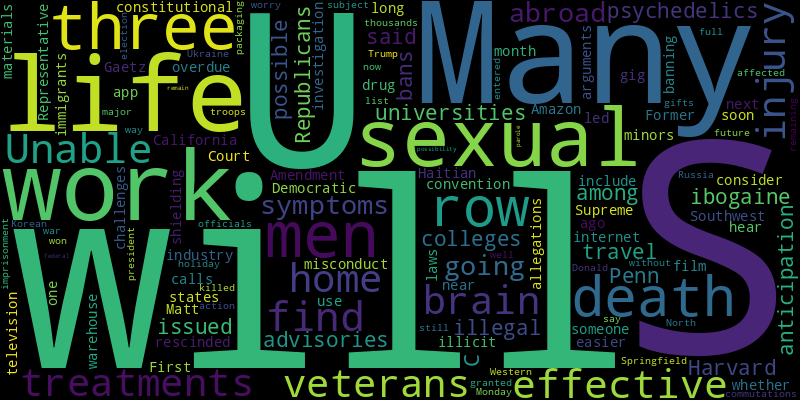
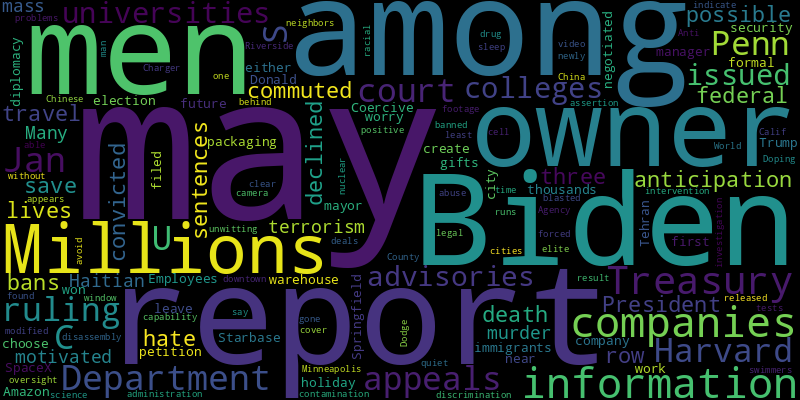
chore(bot): 👻 auto commit

diff --git a/README.md b/README.md
@@ -2,41 +2,41 @@
 Auto RSS New York Times and Generate Word Cloud
 
 ## New York Times Global News
+* Trump blamed Biden. Biden blamed the Afghan military. Our investigation found that the U.S. unwittingly laid the groundwork for the Taliban’s victory long ago.
+* Some say that the community is in danger of losing its 1,600-year foothold in the enclave and that it is far from certain those who have fled will ever feel safe enough to return home.
+* The Catholic Jubilee in 2025 is expected to draw 32 million visitors. Officials are proud of the city’s accompanying makeover, but residents lament soaring housing costs and changes in Rome’s character.
+* It is a daunting task for Bangladesh. But an unusual mix of young people and seasoned technocrats are determined to make the most of their opening.
+* Reports of vandalism and mob violence are real, but wilder accusations emanating from India muddy the picture.
+* Hun Manet, who took over as prime minister last year, has followed in the steps of his father, who ran Cambodia for nearly 40 years.
+* The U.K. government has pledged to remove hereditary peers from Parliament in 2025. For Lord Cromwell and 87 others, it is a wistful departure.
+* President Aleksandr G. Lukashenko of Belarus keeps arresting political opponents, but analysts wonder if a string of unusual pardons is a bid to get sanctions eased.
 * After decades of silence, dozens of older men are talking about the sexual abuse they suffered at schools run by religious orders. We spoke to four of them.
-* Gangs are filling a power vacuum left by Israel in some parts of southern Gaza, hijacking desperately needed aid for Palestinian residents.
-* The North Korean army is one of the world’s largest. As it joins Russia’s war against Ukraine, its soldiers are paying a price for Kim Jong-un’s geopolitical maneuvers.
-* The authorities said they were struggling to understand the motives behind ramming a car into a Christmas market in the eastern city of Magdeburg, which left a 9-year-old boy among the five dead.
-* A group of missionaries who surf have expanded to a remote part of Costa Rica, where people come from afar looking for the “perfect wave.” And maybe a little Jesus?
-* At least 17 on the ground were hurt, officials said.
-* Lithuania’s national opera house had stopped showing Tchaikovsky’s 1892 masterpiece in solidarity with Ukraine over the war with Russia. Then a new minister expressed fondness for the Russian composer, igniting a furor.
-* President Bashar al-Assad, who wielded fear and force over Syria for more than two decades, fled the country under the cover of night — and a fake political address.
-* A U.S. Navy ship mistakenly fired at the F/A-18, whose two pilots were safely recovered, the military said.
-* In the West African nation of Niger, killings by insurgents have surged since the military seized power in a coup, expelled U.S. and European troops and stopped negotiations with Islamist groups.
+* After an assailant driving an S.U.V. killed five people, calls for solidarity have quickly given way to criticism by rival lawmakers, ahead of snap elections set for February.
 
 ![Global](./global.png)
 ## New York Times United States News
-* Unable to find effective treatments at home, veterans with brain-injury symptoms are going abroad for psychedelics like ibogaine that are illegal in the U.S.
+* Millions of companies may have to report information about their owners to the Treasury Department by Jan. 1 under an appeals court ruling.
 * Harvard, Penn and U.S.C. were among the universities and colleges that issued advisories in anticipation of possible travel bans.
-* Some Republicans have said that a constitutional convention is overdue. Many Democratic-led states have rescinded their long-ago calls for one, and California will soon consider whether to do the same.
-* Would life in the Southwest be easier for someone doing gig work in the television and film industry?
-* Former Representative Matt Gaetz has been under investigation since 2021 over allegations that include sexual misconduct and illicit drug use.
-* The Supreme Court will hear arguments next month in First Amendment challenges to laws banning the app and shielding minors from sexual materials on the internet.
+* President Biden commuted the sentences of 37 men on federal death row but declined to save the lives of three men convicted of “hate-motivated mass murder” or “terrorism.”
 * Many Haitian immigrants work at an Amazon warehouse near Springfield, packaging thousands of holiday gifts. But after Donald Trump won the election, some worry about their future.
-* North Korean troops have now entered Russia’s war with Ukraine in a major way, and some have been killed, Western officials say.
-* Here is a full list of those granted commutations, as well as the three men remaining on death row.
-* Those affected by the president’s action on Monday are still subject to life imprisonment without the possibility of parole. Three men will remain on federal death row.
+* Employees of SpaceX have filed a formal petition to create the city of Starbase. Its first mayor would be a security manager for the company.
+* “Coercive diplomacy” could leave Tehran to choose either a negotiated disassembly of its nuclear capability, or a forced one.
+* As time runs out for the Biden administration, cities like Minneapolis — where an investigation found abuse and racial discrimination — may avoid oversight.
+* A modified Dodge Charger that blasted neighbors out of their sleep appears to have gone quiet, at least downtown, as its owner deals with legal problems.
+* China and the World Anti-Doping Agency say that positive tests for a banned drug among elite Chinese swimmers were a result of unwitting contamination. But the science behind that assertion is not so clear.
+* Reports and video footage newly released in Riverside County, Calif., indicate that a man was able to cover his cell window and camera without intervention.
 
 ![US](./usnews.png)
 ## New York Times Asia News
+* Trump blamed Biden. Biden blamed the Afghan military. Our investigation found that the U.S. unwittingly laid the groundwork for the Taliban’s victory long ago.
+* Reports of vandalism and mob violence are real, but wilder accusations emanating from India muddy the picture.
+* It is a daunting task for Bangladesh. But an unusual mix of young people and seasoned technocrats are determined to make the most of their opening.
+* Hun Manet, who took over as prime minister last year, has followed in the steps of his father, who ran Cambodia for nearly 40 years.
+* The Japanese companies are considering joining forces to survive in a rapidly changing auto industry, but auto history is filled with troubled and failed marriages.
+* Plus, celebrating “Chrismukkah.”
 * The North Korean army is one of the world’s largest. As it joins Russia’s war against Ukraine, its soldiers are paying a price for Kim Jong-un’s geopolitical maneuvers.
 * With the next season of “Squid Game” about to air, a Korean American writer shares her experience of a group tour in Korea based on the popular streaming genre.
 * Japan’s second- and third-largest automakers hope the $50 billion deal would help them catch up with Tesla and China’s BYD in electric vehicles and advanced software.
 * Plus, parody as protest in South Korea.
-* Anh Sung-jae went to America as a 13-year-old, joined the Army, went to culinary school and opened a top restaurant in San Francisco. Now back home in South Korea, he’s a Netflix star.
-* Political instability, dwindling public support and economic constraints are eroding the costly gains that the country made in combating militancy after a  school attack in 2014.
-* In separate agreements with Nauru, Papua New Guinea and the Solomon Islands, Australia is attempting to edge out China’s influence in the region.
-* Pension funds and big investors are pressuring Coca-Cola, Pepsico and others over brutal working conditions in India’s cane fields. Some of the sugar buyers are tiptoeing toward change.
-* A quarter century after the former Portuguese colony was made a Chinese territory, Macau’s economic boundaries with the mainland are being blurred.
-* Plus, the year in viral moments.
 
 ![Asian](./asian.png)

diff --git a/archive/2024-12-23.md b/archive/2024-12-23.md
@@ -1,0 +1,42 @@
+# NewsArchive
+Auto RSS New York Times and Generate Word Cloud
+
+## New York Times Global News
+* After decades of silence, dozens of older men are talking about the sexual abuse they suffered at schools run by religious orders. We spoke to four of them.
+* Gangs are filling a power vacuum left by Israel in some parts of southern Gaza, hijacking desperately needed aid for Palestinian residents.
+* The North Korean army is one of the world’s largest. As it joins Russia’s war against Ukraine, its soldiers are paying a price for Kim Jong-un’s geopolitical maneuvers.
+* The authorities said they were struggling to understand the motives behind ramming a car into a Christmas market in the eastern city of Magdeburg, which left a 9-year-old boy among the five dead.
+* A group of missionaries who surf have expanded to a remote part of Costa Rica, where people come from afar looking for the “perfect wave.” And maybe a little Jesus?
+* At least 17 on the ground were hurt, officials said.
+* Lithuania’s national opera house had stopped showing Tchaikovsky’s 1892 masterpiece in solidarity with Ukraine over the war with Russia. Then a new minister expressed fondness for the Russian composer, igniting a furor.
+* President Bashar al-Assad, who wielded fear and force over Syria for more than two decades, fled the country under the cover of night — and a fake political address.
+* A U.S. Navy ship mistakenly fired at the F/A-18, whose two pilots were safely recovered, the military said.
+* In the West African nation of Niger, killings by insurgents have surged since the military seized power in a coup, expelled U.S. and European troops and stopped negotiations with Islamist groups.
+
+![Global](./global.png)
+## New York Times United States News
+* Unable to find effective treatments at home, veterans with brain-injury symptoms are going abroad for psychedelics like ibogaine that are illegal in the U.S.
+* Harvard, Penn and U.S.C. were among the universities and colleges that issued advisories in anticipation of possible travel bans.
+* Some Republicans have said that a constitutional convention is overdue. Many Democratic-led states have rescinded their long-ago calls for one, and California will soon consider whether to do the same.
+* Would life in the Southwest be easier for someone doing gig work in the television and film industry?
+* Former Representative Matt Gaetz has been under investigation since 2021 over allegations that include sexual misconduct and illicit drug use.
+* The Supreme Court will hear arguments next month in First Amendment challenges to laws banning the app and shielding minors from sexual materials on the internet.
+* Many Haitian immigrants work at an Amazon warehouse near Springfield, packaging thousands of holiday gifts. But after Donald Trump won the election, some worry about their future.
+* North Korean troops have now entered Russia’s war with Ukraine in a major way, and some have been killed, Western officials say.
+* Here is a full list of those granted commutations, as well as the three men remaining on death row.
+* Those affected by the president’s action on Monday are still subject to life imprisonment without the possibility of parole. Three men will remain on federal death row.
+
+![US](./usnews.png)
+## New York Times Asia News
+* The North Korean army is one of the world’s largest. As it joins Russia’s war against Ukraine, its soldiers are paying a price for Kim Jong-un’s geopolitical maneuvers.
+* With the next season of “Squid Game” about to air, a Korean American writer shares her experience of a group tour in Korea based on the popular streaming genre.
+* Japan’s second- and third-largest automakers hope the $50 billion deal would help them catch up with Tesla and China’s BYD in electric vehicles and advanced software.
+* Plus, parody as protest in South Korea.
+* Anh Sung-jae went to America as a 13-year-old, joined the Army, went to culinary school and opened a top restaurant in San Francisco. Now back home in South Korea, he’s a Netflix star.
+* Political instability, dwindling public support and economic constraints are eroding the costly gains that the country made in combating militancy after a  school attack in 2014.
+* In separate agreements with Nauru, Papua New Guinea and the Solomon Islands, Australia is attempting to edge out China’s influence in the region.
+* Pension funds and big investors are pressuring Coca-Cola, Pepsico and others over brutal working conditions in India’s cane fields. Some of the sugar buyers are tiptoeing toward change.
+* A quarter century after the former Portuguese colony was made a Chinese territory, Macau’s economic boundaries with the mainland are being blurred.
+* Plus, the year in viral moments.
+
+![Asian](./asian.png)
